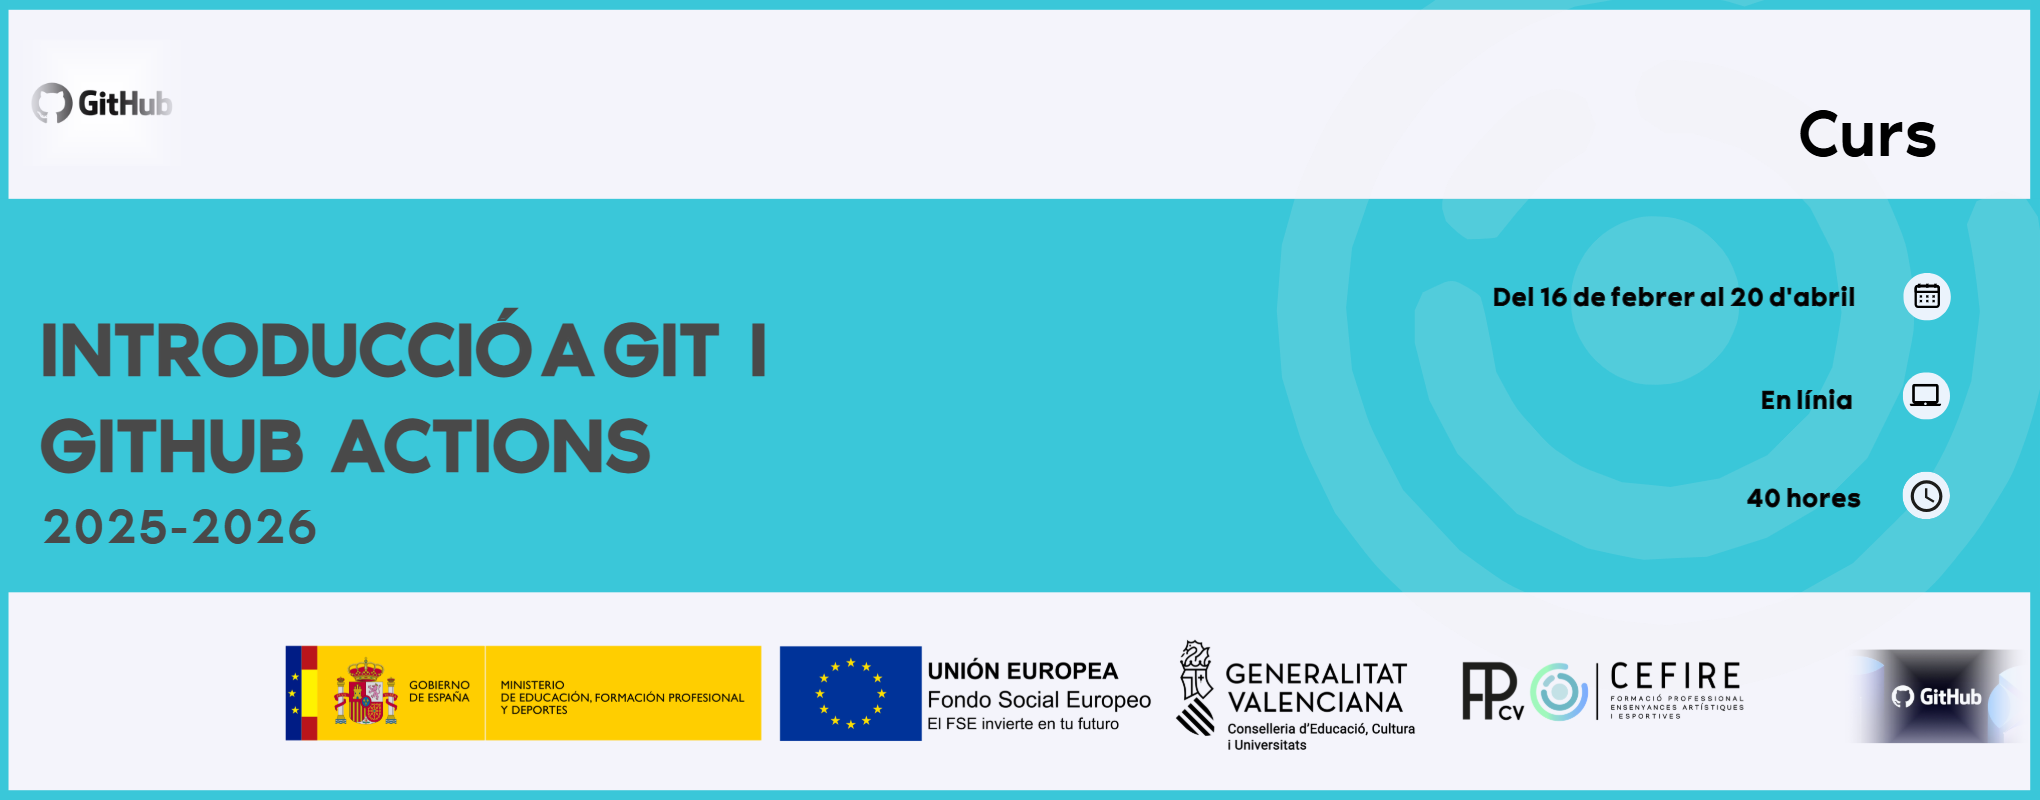
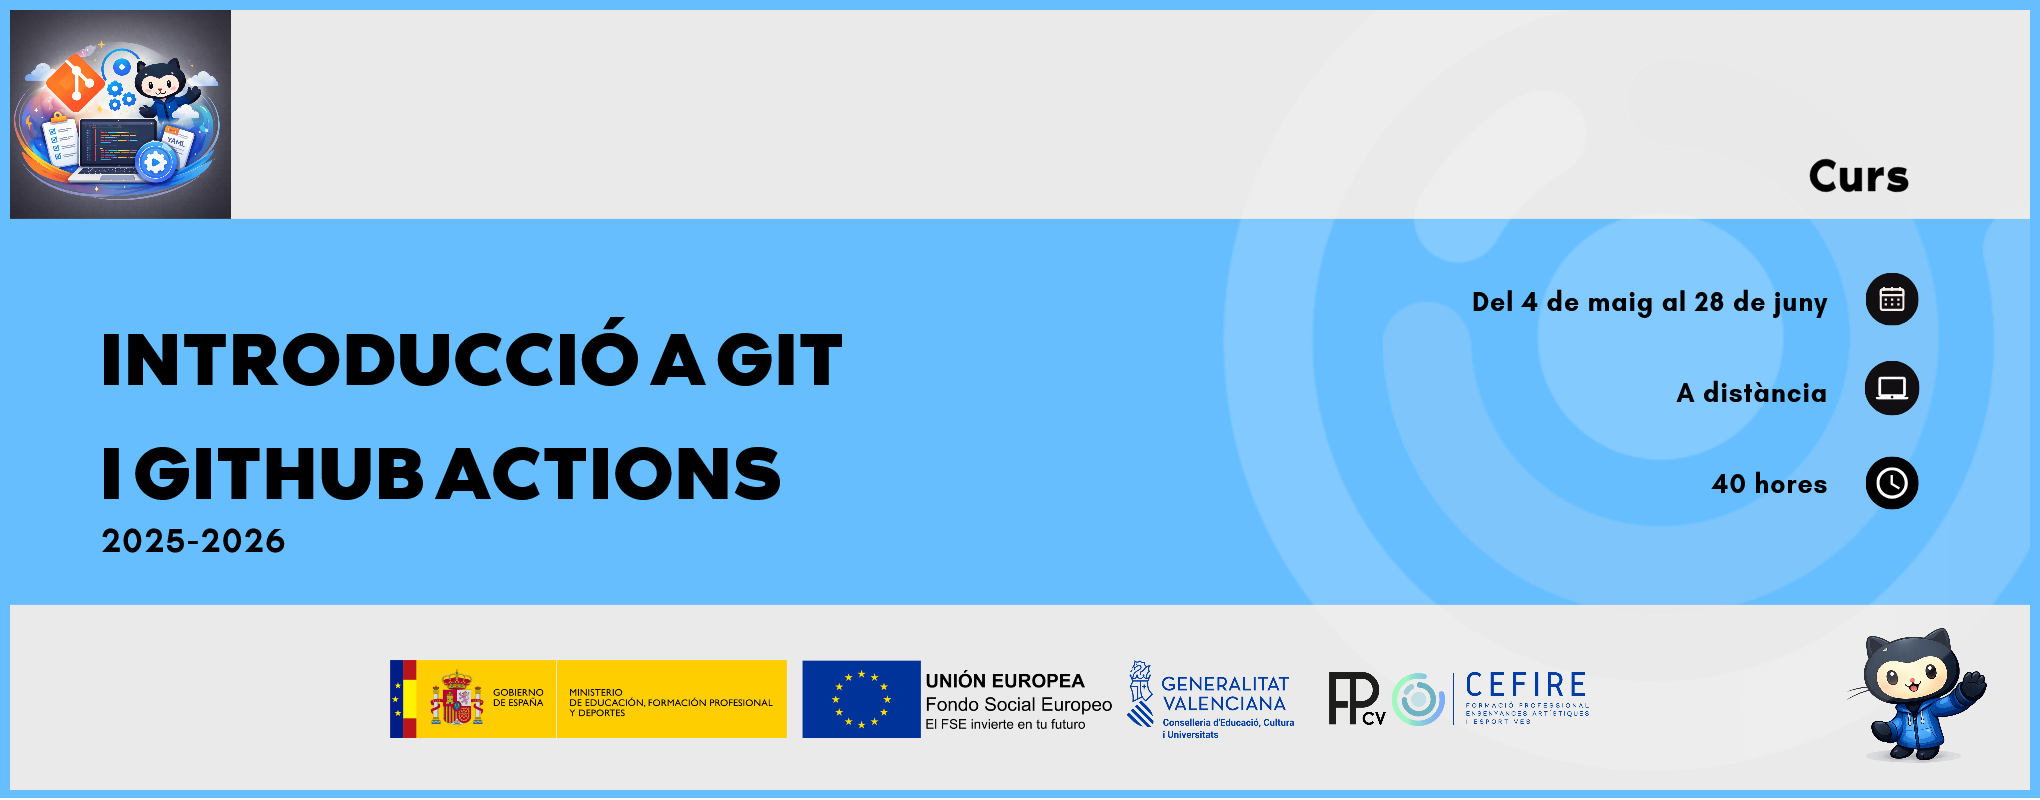
Preparacio nova edició (#85)

diff --git a/docs/apunts/08_actions/automatitzacio.md b/docs/apunts/08_actions/automatitzacio.md
@@ -365,7 +365,7 @@ GitHub Pages pot ser configurat per publicar-se de dues maneres diferents:
     per generar les pàgines HTML, sinó que les pàgines ja estan generades
     i són servides directament.
 
-!!! example "Exemple: [[actions-exemples#publicacio-dun-lloc-web-estatic-generat-amb-mkdocs-a-github-pages]]"
+!!! example "Exemple: [[actions-exemples#publicacio-dun-lloc-web-estatic-generat-amb-properdocs-a-github-pages]]"
 
 ## Bibliografia
 - [:octicons-link-external-16: What is CI/CD](https://about.gitlab.com/topics/ci-cd/) – :simple-gitlab: GitLab

diff --git a/docs/index.md b/docs/index.md
@@ -26,7 +26,7 @@ per mitjà de fluxos de treball definits en un repositori de :simple-github: Git
 
 
 ## Característiques
-- __:octicons-calendar-16: Temporització__: Del 16 de febrer al 20 d'abril de 2026.
+- __:octicons-calendar-16: Temporització__: Del 4 de maig al 28 de juny de 2026.
 - __:material-laptop: Modalitat__: En línia.
 - __:octicons-clock-16: Durada__: 40 hores.
 
